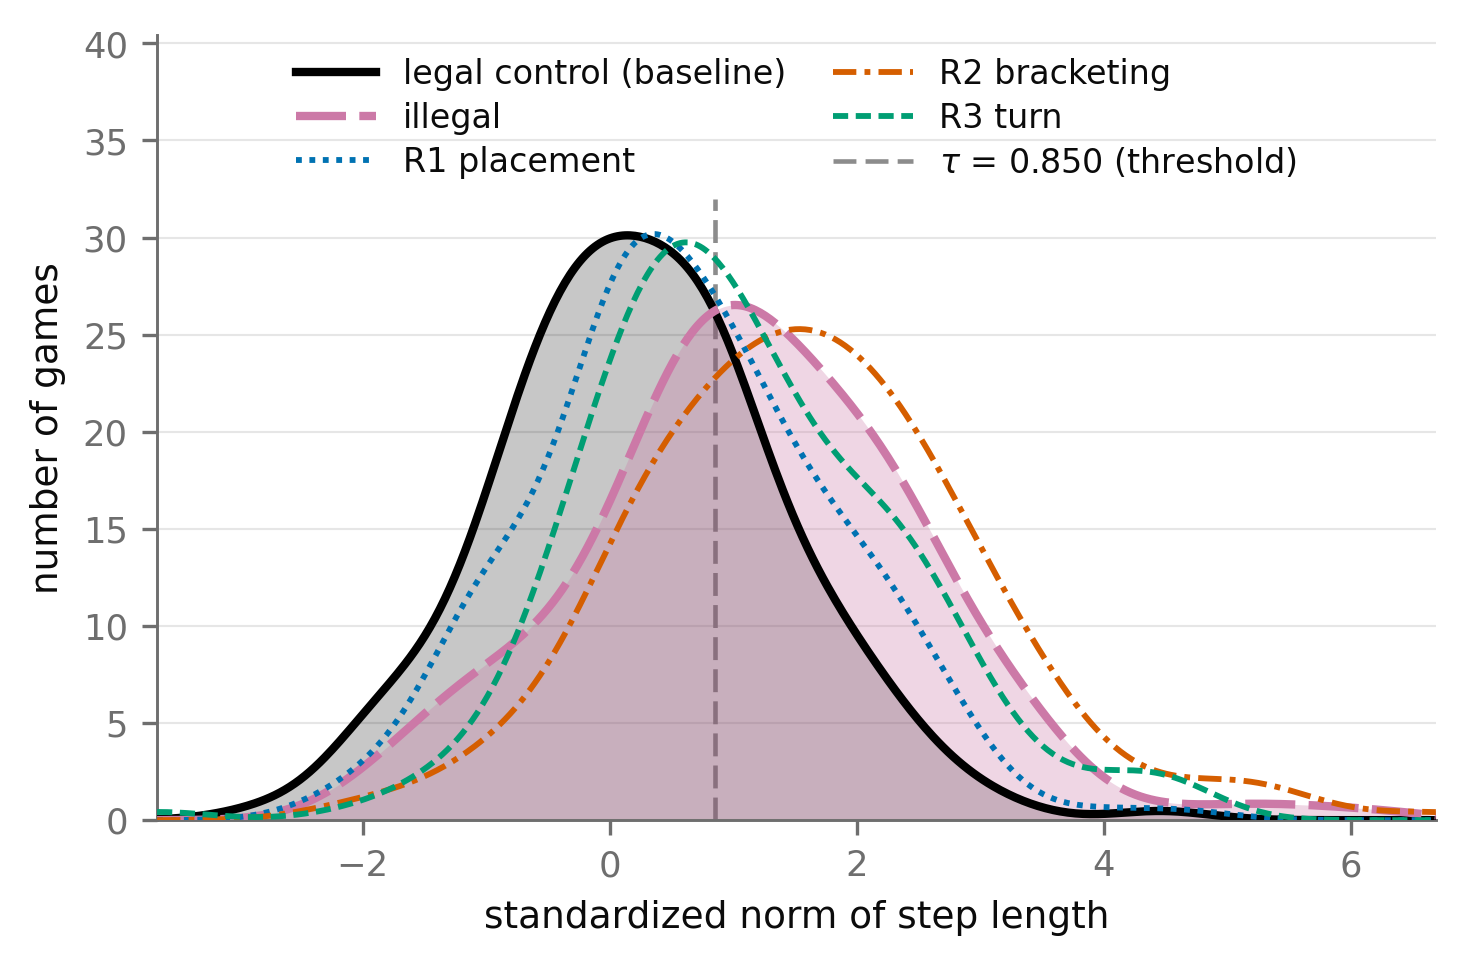
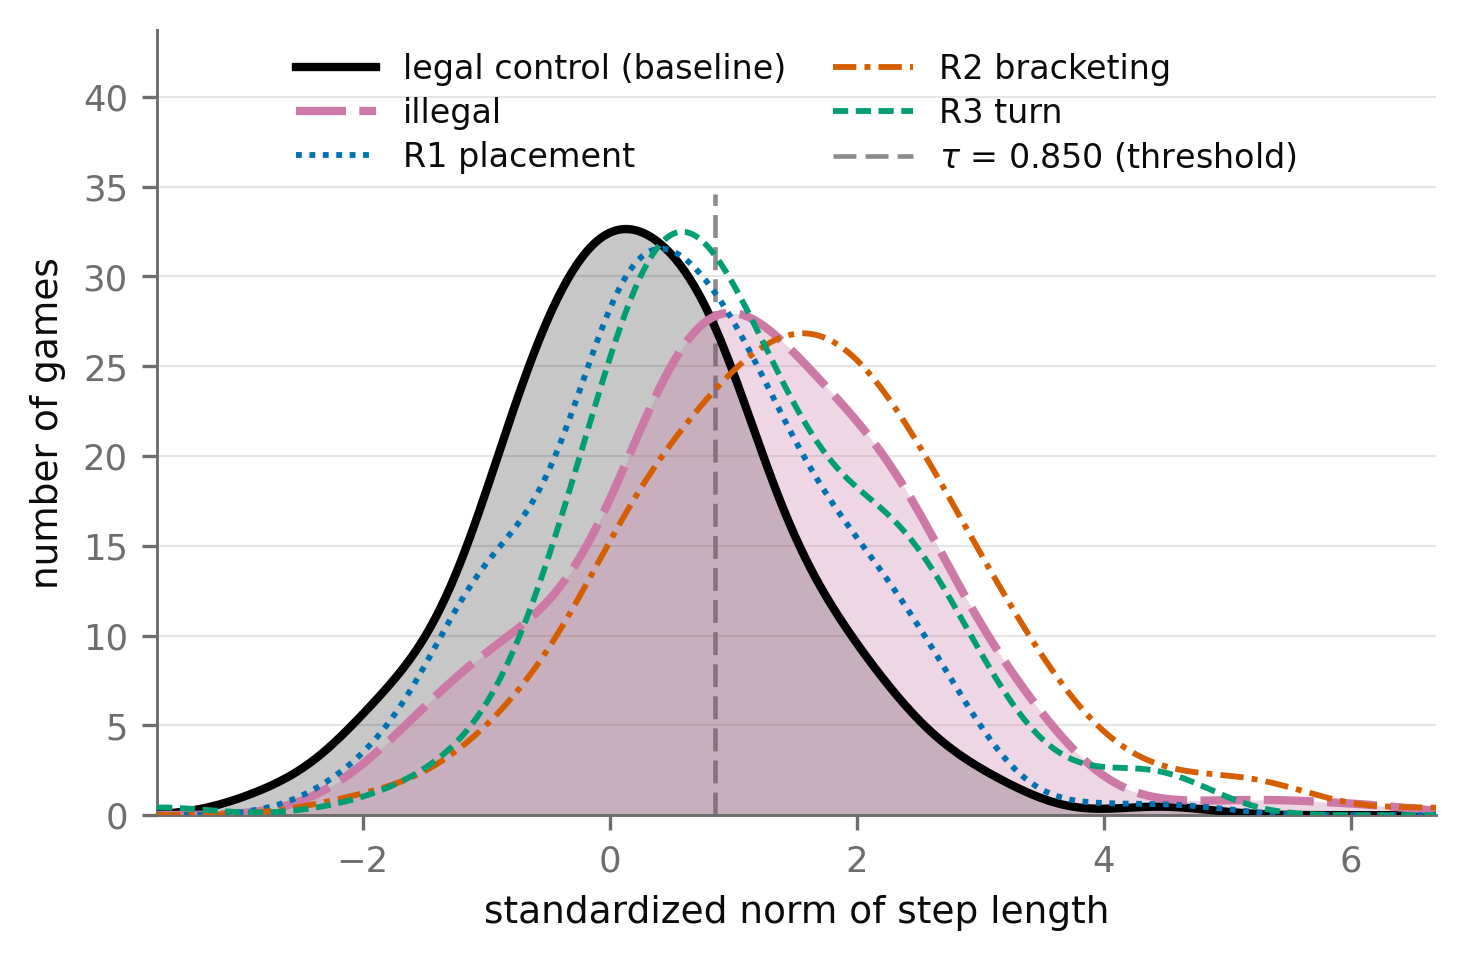
detector figures: exactly 200 games per class
detector.N_EVAL replaces PER_T0: the target is the per-class n itself, so the
panels carry move_legality's 200 exactly rather than the largest uniform
sample under it. 200 does not divide the 21 scored positions, so the lowest
11 take 10 games and the rest 9 -- a spread of one game, against the 46% one
position a prefix of game ids carries.

AUROCs: illegal 0.700, R1 0.590, R2 0.775, R3 0.690.

diff --git a/analysis/violation_divergence/illegal_move_detector/detector.py b/analysis/violation_divergence/illegal_move_detector/detector.py
@@ -37,11 +37,11 @@ SEED = 42
 N_LEGAL = 2000                          # the straightness legal block
 RULES = ["R1", "R2", "R3"]
 ARMS = ["illegal", *RULES]
-# Games per t0 in the population figures. 9 x 21 positions = 189, the largest uniform sample
-# at or under the 200 games per condition of `move_legality.detection_auroc`, whose bar chart
-# these panels are read beside. The pool allows 22 (n = 462); the cap is comparability, not
-# availability, and it costs interval width.
-PER_T0 = 9
+# Games per class in the population figures: `move_legality.detection_auroc`'s per-bar n, so
+# the panels these are read beside carry the same weight of evidence. The pool would allow 462
+# (22 at every position); the cap is comparability, not availability, and it widens every
+# interval by about 1.6x.
+N_EVAL = 200
 
 # One game for the board panel and the trace beside it. Picked by `select_game.py`: all three
 # rules have a branch at its t0, t0 sits far enough inside the band that +-5 plies stay on the
@@ -85,7 +85,7 @@ def arms(data: dict, seed: int = SEED) -> dict[str, np.ndarray]:
     return {k: v.numpy() for k, v in localize.arms(meta, seed).items()}
 
 
-def stratified(data: dict, sel: dict, per_t0: int = PER_T0) -> np.ndarray:
+def stratified(data: dict, sel: dict, n_games: int = N_EVAL) -> np.ndarray:
     """Positions into every arm's index array: the same number of games at every t0.
 
     The tree is not balanced on move index -- `extend_branches` forked 1,666 of its games at
@@ -93,14 +93,17 @@ def stratified(data: dict, sel: dict, per_t0: int = PER_T0) -> np.ndarray:
     and move index is the strongest nuisance this tree has. An equal quota per t0 makes the
     sample flat across the range, the way `move_legality.detection_auroc` deals its groups.
 
-    The quota is `per_t0`, or the smallest stratum when that is smaller. Within a stratum the
+    `n_games` rarely divides the number of positions -- 200 over 21 does not -- so the lowest
+    `n_games % len(values)` positions take one game more than the rest. That is a spread of one
+    game, against the 46% imbalance the unstratified prefix carried. Within a position the
     games are the first by sorted game_id: a stated prefix that reproduces without a seed.
     """
     game, t0 = data["game_id"][sel["reference"]], data["t0"][sel["reference"]]
     values = np.unique(t0)
-    quota = min(per_t0, *(int((t0 == v).sum()) for v in values))
-    keep = [np.flatnonzero(t0 == v)[np.argsort(game[t0 == v], kind="stable")][:quota]
-            for v in values]
+    quota, extra = divmod(n_games, len(values))
+    assert quota + 1 <= min(int((t0 == v).sum()) for v in values), "a t0 cannot fill its quota"
+    keep = [np.flatnonzero(t0 == v)[np.argsort(game[t0 == v], kind="stable")]
+            [:quota + (i < extra)] for i, v in enumerate(values)]
     return np.sort(np.concatenate(keep))
 
 

diff --git a/analysis/violation_divergence/illegal_move_detector/figure_boards.py b/analysis/violation_divergence/illegal_move_detector/figure_boards.py
@@ -43,7 +43,7 @@ right. Off $t_0$ the row scored is the reference game itself, whose move there i
 one it played, so anything over tau is a false alarm; at $t_0$ it is the drawn branch, which is
 illegal. `select_game.py` requires at least four of the five to come out right. The current
 pick comes out at five; it was four before the corpus widened to t0 >= 14 and moved tau, and
-one panel is one game either way -- 29% of legal positions sit above tau.
+one panel is one game either way -- 28% of legal positions sit above tau.
 
 The game, its $t_0$ and the three branch rows are `select_game.py`'s pick, read from
 figure_game.json; every square's category is re-derived with `taxonomy.classify`, so a corpus

diff --git a/analysis/violation_divergence/illegal_move_detector/select_game.py b/analysis/violation_divergence/illegal_move_detector/select_game.py
@@ -15,7 +15,7 @@ order they bind:
 
 The last two criteria are selections over games and the figure caption has to say so: this is
 an illustrative game chosen to be legible, not a typical one. Figures 3 and 4 are the
-population, where 29% of legal positions sit above tau. MIN_CORRECT is 4, not 5, so the
+population, where 28% of legal positions sit above tau. MIN_CORRECT is 4, not 5, so the
 criterion does not hunt for a window with no false alarm in it; the current pick happens to
 have none.
 

diff --git a/analysis/violation_divergence/illegal_move_detector/README.md b/analysis/violation_divergence/illegal_move_detector/README.md
@@ -52,8 +52,8 @@ out of the baseline it is scored against.
 |---|---|
 | `board_states.png` | the board at *t0*−2 … *t0*+2 of game 3889: the legal move played at each of the four surrounding plies, and the illegal move the drawn branch plays at *t0* |
 | `detector_trace.png` | the detector score for that same game over moves *t0*−5 … *t0*+5, three rule arms against the matched legal control, with τ |
-| `auroc_by_rule.png` | AUROC at *t0*, illegal branch against the same game's legal control, pooled and per rule, n = 189 games |
-| `score_histograms.png` | the distributions that AUROC summarizes: the score at *t0* for legal, illegal, R1, R2, R3, the same 189 games, with τ |
+| `auroc_by_rule.png` | AUROC at *t0*, illegal branch against the same game's legal control, pooled and per rule, n = 200 games |
+| `score_histograms.png` | the distributions that AUROC summarizes: the score at *t0* for legal, illegal, R1, R2, R3, the same 200 games, with τ |
 
 Band semantics: every interval is a 95% percentile bootstrap over **source games** as
 clusters, 1,000 resamples, seed 42 — games and never positions, because one game's candidates
@@ -95,7 +95,8 @@ score at that game's own *t0*, one value per branch. `legal / illegal` is the po
 illegal branch per game); R1/R2/R3 are that same arm split by rule.
 
 **The evaluation set is flat over *t0*.** `detector.stratified` takes an equal quota of games
-at every *t0* in the scored range — **9 games at each of 14…34, n = 189** — because the tree
+at every *t0* in the scored range — **n = 200 over *t0* = 14…34**, 10 games at each of 14–24
+and 9 at each of 25–34 — because the tree
 is not balanced on move index: `extend_branches.py` forked 1,665 of its 2,278 eligible games at
 *t0* = 20 and about 30 at each other value, so any prefix of game ids is ~46% one position, and
 move index is the strongest nuisance variable this tree has. `move_legality.detection_auroc`
@@ -109,13 +110,13 @@ anywhere. The quota is the smallest stratum (22 games, at *t0* = 32 and 33), whi
 n: outside *t0* = 20 the whole tree holds 613 eligible games, 22 at the thinnest position, so
 the largest uniform sample this corpus supports is 22 × 21 = 462.
 
-**n is capped below that, at `detector.PER_T0` = 9 per position.** The cap exists so these
-panels carry the same per-class n as `move_legality.detection_auroc`'s bars, which are 200
-games each; 200 / 21 positions is not an integer, so 9 × 21 = 189 is the largest uniform sample
-at or under it. This is a comparability choice and it costs interval width — the pool would
-give 2.4× the games. Raise `PER_T0` to 22 to spend them.
+**n is capped below that, at `detector.N_EVAL` = 200**, so these panels carry the same
+per-class n as `move_legality.detection_auroc`'s bars. 200 does not divide 21 positions, so the
+lowest 11 take one game more than the rest — a spread of one game, against the 46% imbalance a
+prefix of game ids carries. This is a comparability choice and it costs interval width: the
+pool would give 462. Raise `N_EVAL` to spend them.
 
-`score_histograms` — same corpus, same eligibility, same statistic and the **same 189
+`score_histograms` — same corpus, same eligibility, same statistic and the **same 200
 games** as `auroc_by_rule`, on five arms held aligned game by game (asserted on `game_id` and
 on *t0*). So the panel is literally the distribution those bars summarize, which it was not
 while the two drew different prefixes of the tree.
@@ -147,10 +148,10 @@ judgement of those moves.
 
 **τ flags the legal control too, in this game.** At *t0* the control scores 1.654 against
 τ = 0.850. The three rule arms clear it by more, but the separation is in magnitude, not in
-whether the cut fires — and `score_histograms` shows the same thing at population scale: 29% of
+whether the cut fires — and `score_histograms` shows the same thing at population scale: 28% of
 legal controls sit above τ.
 
-**R2 ≫ R3 ≫ R1**, at 0.777 / 0.684 / 0.585 AUROC. Playing on an already-occupied square is
+**R2 ≫ R3 ≫ R1**, at 0.775 / 0.690 / 0.590 AUROC. Playing on an already-occupied square is
 the hardest violation for this score to see, barely clearing chance. That is the same ordering
 the supervised probe in `analysis/move_legality` finds by an unrelated route, where
 `occupied_opp` is likewise its worst cell.

diff --git a/PROCESS.md b/PROCESS.md
@@ -59,18 +59,19 @@ beside `move_legality`'s bar chart, so they should scan its positions and carry 
 statement about how flat the objective is. It cannot go lower: the score is a MOSUM over
 M_MAX = 12 steps either side, so nothing below move 14 has one, where the probe reads a single
 position and can be evaluated anywhere -- the one difference between the two evaluation sets
-that is not a choice. `detector.PER_T0` = 9 games per position then caps n at 189, because that
-chart's "n = 1000" is 1000 games dealt over five DISJOINT groups, 200 per bar, and 200/21 is
-not an integer. The cap is comparability, not availability -- the corpus supports 462 and the
-intervals widen about 1.6x for it. Matching the disjoint design instead would cap us at 84 per
-group. Final: illegal 0.702, R1 0.585, R2 0.777, R3 0.684.
+that is not a choice. `detector.N_EVAL` = 200 then caps n at that chart's per-bar n -- its
+"n = 1000" is 1000 games dealt over five DISJOINT groups, 200 per bar, where these arms are
+paired and every game appears in all of them. 200 does not divide 21 positions, so the lowest
+11 take 10 games and the rest 9. The cap is comparability, not availability -- the corpus
+supports 462 and the intervals widen about 1.6x for it. Matching the disjoint design instead
+would cap us at 84 per group. Final: illegal 0.700, R1 0.590, R2 0.775, R3 0.690.
 
 **The game moved to 3889, and the t0 board to one move (2026-08-24).** `select_game.py` gained
 a criterion -- the detector has to be right about at least four of the five plies
 `board_states` draws -- because the old pick, 2498, false-alarmed on three of its four legal
 plies once the panels started reporting the detector's call. MIN_CORRECT is 4 and not 5 on
 purpose, so the criterion does not hunt for a window with no false alarm in it; after the
-corpus floor moved and tau went to 0.850 the same pick reads 5/5 anyway, against a 29%
+corpus floor moved and tau went to 0.850 the same pick reads 5/5 anyway, against a 28%
 population false-alarm rate. The t0 panel now draws ONE move, not three: a position has one move played
 in it, and three marked squares read as three moves being played at once. Which one is drawn is
 the arm the trace's peak belongs to, so the two figures name the same move; the board labels it
